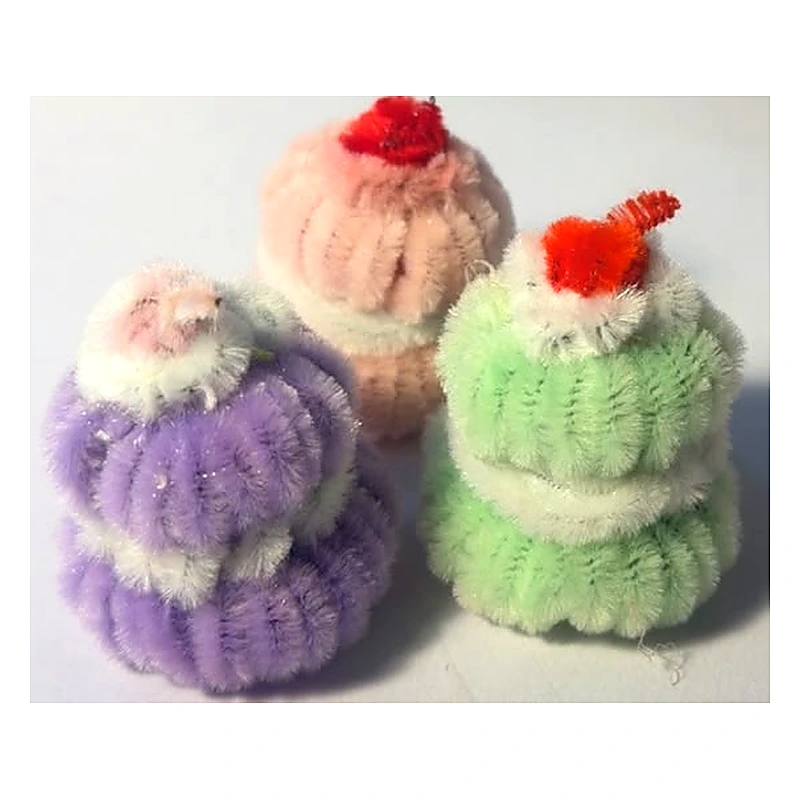
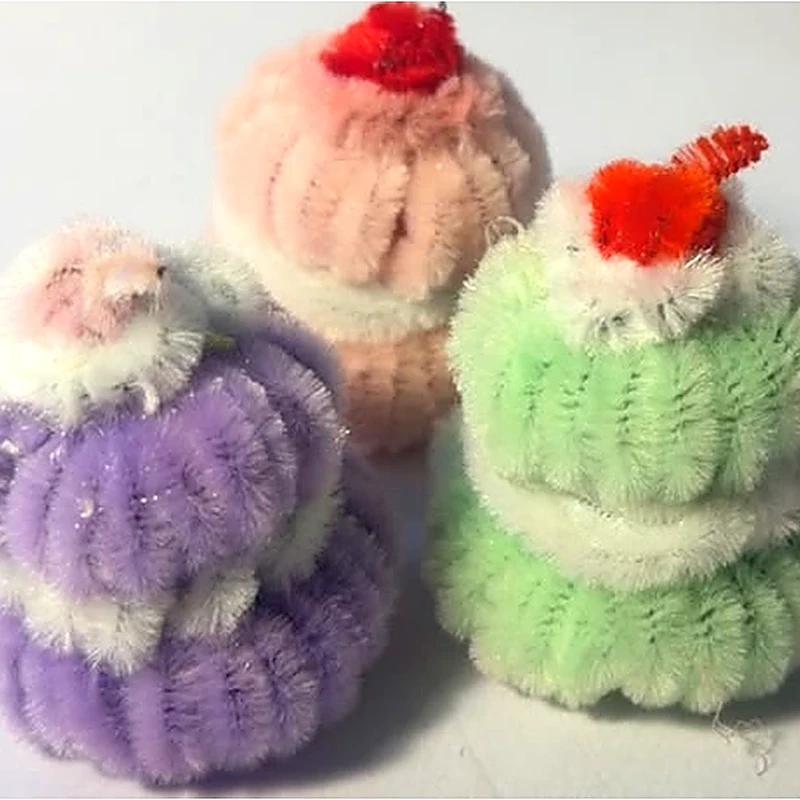
Restore soft pastel catalogue ambience, crop white borders from images for 100% full fit, fix mobile alignment, and shorten hero story

diff --git a/styles.css b/styles.css
@@ -208,46 +208,44 @@ h1 em, h2 em { color: var(--coral); font-style: italic; }
 .product-card {
   min-width: 0;
   position: relative;
-  background: #251222 !important;
-  color: #ffffff !important;
+  background: #ffffff !important;
+  color: #24141e !important;
   border: 1.5px solid var(--card-border, rgba(220, 160, 185, 0.45));
-  border-radius: 26px;
-  overflow: hidden !important;
+  border-radius: 24px;
+  overflow: hidden;
   display: flex;
   flex-direction: column;
-  justify-content: flex-end;
-  box-shadow: 0 12px 34px rgba(78, 24, 53, 0.12);
+  box-shadow: 0 10px 30px rgba(78, 24, 53, 0.08);
   transition: transform 0.35s cubic-bezier(0.16, 1, 0.3, 1), box-shadow 0.35s ease, border-color 0.35s ease;
-  aspect-ratio: 1 / 1.25;
 }
 .product-card:hover {
   transform: translateY(-6px);
-  box-shadow: var(--product-glow, 0 22px 46px rgba(212, 106, 137, 0.32));
-  border-color: rgba(230, 92, 135, 0.65);
+  box-shadow: var(--product-glow, 0 18px 40px rgba(212, 106, 137, 0.24));
+  border-color: rgba(230, 92, 135, 0.55);
 }
 .product-card.is-sold-out { opacity: .74; }
 .product-image {
-  position: absolute !important;
-  inset: 0 !important;
-  width: 100% !important;
-  height: 100% !important;
-  aspect-ratio: auto !important;
-  margin: 0 !important;
-  padding: 0 !important;
-  background: transparent !important;
-  border-radius: 0 !important;
-  box-shadow: none !important;
-  z-index: 1;
+  aspect-ratio: 1 / 1;
+  width: 100%;
+  height: auto;
+  position: relative;
+  overflow: hidden;
+  background: #fff8fa;
   cursor: pointer;
-  display: block;
+  padding: 0;
+  display: flex;
+  align-items: center;
+  justify-content: center;
+  border-radius: 22px 22px 0 0;
 }
 .product-image img {
-  width: 100% !important;
-  height: 100% !important;
-  object-fit: cover !important;
-  object-position: center center !important;
-  border-radius: 0 !important;
-  box-shadow: none !important;
+  width: 100%;
+  height: 100%;
+  object-fit: cover;
+  object-position: center center;
+  border-radius: 0;
+  box-shadow: none;
+  display: block;
   transition: opacity 0.35s ease, transform 0.5s cubic-bezier(0.16, 1, 0.3, 1), filter 0.3s ease;
 }
 .product-card:hover .product-image img {
@@ -257,48 +255,36 @@ h1 em, h2 em { color: var(--coral); font-style: italic; }
 .product-badge-stack { position: absolute !important; left: 12px !important; top: 12px !important; z-index: 4 !important; display: flex !important; flex-direction: column !important; align-items: flex-start !important; gap: 5px !important; pointer-events: none !important; width: auto !important; }
 .product-badge-stack .product-tag { position: static !important; top: auto !important; left: auto !important; right: auto !important; bottom: auto !important; display: inline-flex !important; align-items: center !important; padding: 4px 8px !important; background: rgba(255, 253, 249, 0.94) !important; backdrop-filter: blur(4px) !important; border-radius: 999px !important; font: 600 9.5px var(--mono) !important; text-transform: uppercase !important; letter-spacing: 0.04em !important; color: var(--coral-dark) !important; box-shadow: 0 2px 8px rgba(37, 38, 41, 0.08) !important; margin: 0 !important; }
 .product-badge-stack .product-discount-pill { position: static !important; top: auto !important; left: auto !important; right: auto !important; bottom: auto !important; display: inline-flex !important; align-items: center !important; padding: 3px 8px !important; background: var(--coral) !important; color: #fff !important; border-radius: 999px !important; font: 700 9.5px var(--mono) !important; letter-spacing: 0.02em !important; box-shadow: 0 2px 8px rgba(231, 110, 89, 0.35) !important; margin: 0 !important; }
-.product-image .wish-button { position: absolute; top: 12px; right: 12px; z-index: 4; width: 34px; height: 34px; border: 0; background: rgba(255, 253, 249, 0.92); backdrop-filter: blur(4px); border-radius: 50%; font-size: 18px; line-height: 1; display: grid; place-items: center; transition: transform 0.2s ease, background 0.2s ease; box-shadow: 0 4px 10px rgba(0, 0, 0, 0.15); }
+.product-image .wish-button { position: absolute; top: 12px; right: 12px; z-index: 4; width: 34px; height: 34px; border: 0; background: rgba(255, 253, 249, 0.92); backdrop-filter: blur(4px); border-radius: 50%; font-size: 18px; line-height: 1; display: grid; place-items: center; transition: transform 0.2s ease, background 0.2s ease; box-shadow: 0 4px 10px rgba(78, 24, 53, 0.1); }
 .wish-button:hover { transform: scale(1.12); background: #fff; }
 .wish-button.active { color: var(--coral-dark); }
-.product-quick-view-overlay { position: absolute; inset: 0; background: rgba(20, 8, 17, 0.3); backdrop-filter: blur(2.5px); -webkit-backdrop-filter: blur(2.5px); display: grid; place-items: center; opacity: 0; pointer-events: none; transition: opacity 0.25s ease; z-index: 3; }
+.product-quick-view-overlay { position: absolute; inset: 0; background: rgba(78, 24, 53, 0.18); backdrop-filter: blur(2px); -webkit-backdrop-filter: blur(2px); display: grid; place-items: center; opacity: 0; pointer-events: none; transition: opacity 0.25s ease; z-index: 3; }
 .product-card:hover .product-quick-view-overlay { opacity: 1; pointer-events: auto; }
-.quick-view-btn { padding: 9px 20px; background: rgba(255, 255, 255, 0.95); color: #24141e; border-radius: 999px; font-family: var(--font-btn) !important; font-size: 1.05rem !important; font-weight: 700 !important; letter-spacing: 0.04em !important; text-transform: uppercase !important; line-height: 1 !important; box-shadow: 0 4px 16px rgba(0, 0, 0, 0.2); transform: translateY(6px); transition: transform 0.25s ease, background 0.2s ease, color 0.2s ease; }
+.quick-view-btn { padding: 9px 20px; background: rgba(255, 255, 255, 0.95); color: #24141e; border-radius: 999px; font-family: var(--font-btn) !important; font-size: 1.05rem !important; font-weight: 700 !important; letter-spacing: 0.04em !important; text-transform: uppercase !important; line-height: 1 !important; box-shadow: 0 4px 16px rgba(78, 24, 53, 0.14); transform: translateY(6px); transition: transform 0.25s ease, background 0.2s ease, color 0.2s ease; }
 .product-card:hover .quick-view-btn { transform: translateY(0); }
 .quick-view-btn:hover { background: #fff; color: var(--coral-dark); }
 .product-info {
-  position: relative;
-  z-index: 2;
-  width: 100%;
-  box-sizing: border-box;
-  padding: 42px 18px 18px !important;
+  padding: 18px 20px 22px;
   display: flex;
   flex-direction: column;
-  gap: 10px;
-  background: linear-gradient(
-    to top,
-    rgba(20, 8, 17, 0.96) 0%,
-    rgba(20, 8, 17, 0.84) 52%,
-    rgba(20, 8, 17, 0.42) 80%,
-    transparent 100%
-  ) !important;
-  backdrop-filter: blur(8px);
-  -webkit-backdrop-filter: blur(8px);
-  border-bottom-left-radius: inherit;
-  border-bottom-right-radius: inherit;
+  gap: 12px;
+  flex-grow: 1;
+  justify-content: space-between;
+  background: #ffffff;
 }
-.product-heading h3 { margin: 0; font-size: 16px; font-weight: 700; line-height: 1.35; color: #ffffff !important; cursor: pointer; text-shadow: 0 2px 8px rgba(0, 0, 0, 0.6); transition: color 0.2s ease; }
-.product-heading h3:hover { color: #ff9ebb !important; }
-.product-heading p { margin: 4px 0 0; color: rgba(255, 235, 244, 0.88) !important; font-size: 12px; line-height: 1.45; font-weight: 400; text-shadow: 0 1px 4px rgba(0, 0, 0, 0.6); }
+.product-heading h3 { margin: 0; font-size: 16px; font-weight: 700; line-height: 1.35; color: #24141e !important; cursor: pointer; transition: color 0.2s ease; }
+.product-heading h3:hover { color: #d1496d !important; }
+.product-heading p { margin: 4px 0 0; color: #5c4352 !important; font-size: 12px; line-height: 1.45; font-weight: 400; }
 .product-price-box { display: flex; align-items: baseline; gap: 8px; }
-.product-price { font: 800 18px var(--mono); color: #ff9ebb !important; font-variant-numeric: tabular-nums; text-shadow: 0 1px 4px rgba(0, 0, 0, 0.5); }
-.product-price-old { font: 500 12.5px var(--mono); color: rgba(255, 255, 255, 0.6) !important; text-decoration: line-through; font-variant-numeric: tabular-nums; }
+.product-price { font: 800 18px var(--mono); color: #ad2951 !important; font-variant-numeric: tabular-nums; }
+.product-price-old { font: 500 12.5px var(--mono); color: #8c7380 !important; text-decoration: line-through; font-variant-numeric: tabular-nums; }
 .product-actions-grid { display: grid; grid-template-columns: 1fr 1.05fr; gap: 8px; margin-top: 4px; }
 .action-btn { padding: 12px 14px; border-radius: 999px; font-family: var(--font-btn) !important; font-size: 1.12rem !important; font-weight: 700 !important; letter-spacing: 0.04em !important; text-transform: uppercase !important; line-height: 1 !important; display: inline-flex; align-items: center; justify-content: center; text-align: center; cursor: pointer; transition: all 0.2s ease; border: 1px solid transparent; white-space: nowrap; }
-.action-btn-bag { background: rgba(255, 255, 255, 0.95) !important; color: #24141e !important; border: none !important; box-shadow: 0 4px 14px rgba(0, 0, 0, 0.25); }
-.action-btn-bag:hover { background: #ffffff !important; color: #b82d56 !important; transform: translateY(-1px); }
+.action-btn-bag { background: #fff6f8 !important; border: 1.5px solid rgba(196, 95, 124, 0.28) !important; color: #8c2a4b !important; box-shadow: none !important; }
+.action-btn-bag:hover { background: #ffe9ef !important; border-color: var(--coral-dark) !important; color: var(--coral-dark) !important; transform: translateY(-1px); }
 .action-btn-bag.added-feedback { background: #4caf50 !important; border-color: #4caf50 !important; color: #fff !important; }
-.action-btn-buy { background: linear-gradient(135deg, #e65c87 0%, #b83863 100%) !important; color: #fff !important; border: none !important; box-shadow: 0 4px 14px rgba(230, 92, 135, 0.4); }
-.action-btn-buy:hover { filter: brightness(1.08); box-shadow: 0 6px 18px rgba(230, 92, 135, 0.5); transform: translateY(-1px); }
+.action-btn-buy { background: linear-gradient(135deg, #e65c87 0%, #b83863 100%) !important; color: #fff !important; border: none !important; box-shadow: 0 4px 14px rgba(230, 92, 135, 0.32) !important; }
+.action-btn-buy:hover { filter: brightness(1.08); box-shadow: 0 6px 18px rgba(230, 92, 135, 0.42); transform: translateY(-1px); }
 .empty-state { margin-top: 50px; color: var(--muted); text-align: center; }
 
 .story-band { display: grid; grid-template-columns: 1fr 1fr; align-items: center; gap: clamp(45px, 9vw, 125px); padding-block: 0 142px; }
@@ -2760,9 +2746,9 @@ body.theme-dark .seller-quick-form input {
   /* Mobile Content Padding, Card Spacing & Overflow Fixes */
   .section-shell,
   .site-header {
-    width: calc(100% - 36px) !important;
-    max-width: calc(100% - 36px) !important;
-    padding-inline: 4px !important;
+    width: calc(100% - 32px) !important;
+    max-width: calc(100% - 32px) !important;
+    padding-inline: 0 !important;
     margin-inline: auto !important;
     box-sizing: border-box !important;
   }
@@ -2779,40 +2765,46 @@ body.theme-dark .seller-quick-form input {
   /* Mobile Product Grid: 1 large immersive card per screen row with uniform aspect ratio & bare minimum info */
   .product-grid {
     grid-template-columns: 1fr !important;
-    max-width: 440px !important;
-    margin: 28px auto 0 !important;
-    gap: 34px !important;
+    max-width: 420px !important;
+    margin: 26px auto 0 !important;
+    gap: 28px !important;
     padding-inline: 0 !important;
     width: 100% !important;
     box-sizing: border-box !important;
   }
   .product-card {
-    aspect-ratio: 1 / 1.25 !important;
-    min-height: 480px !important;
-    border-radius: 26px !important;
-    box-shadow: 0 16px 40px rgba(78, 24, 53, 0.16) !important;
+    width: 100% !important;
+    max-width: 100% !important;
+    margin: 0 auto !important;
+    border-radius: 24px !important;
+    box-shadow: 0 10px 28px rgba(78, 24, 53, 0.08) !important;
     overflow: hidden !important;
+    background: #ffffff !important;
+    border: 1.5px solid rgba(220, 160, 185, 0.4) !important;
     display: flex !important;
     flex-direction: column !important;
-    justify-content: flex-end !important;
-    position: relative !important;
+    box-sizing: border-box !important;
+    min-height: 0 !important;
+    aspect-ratio: auto !important;
   }
   .product-image {
-    position: absolute !important;
-    inset: 0 !important;
     width: 100% !important;
-    height: 100% !important;
+    aspect-ratio: 1 / 1 !important;
+    height: auto !important;
     min-height: 0 !important;
     max-height: none !important;
-    aspect-ratio: auto !important;
     padding: 0 !important;
-    border-radius: 0 !important;
+    border-radius: 22px 22px 0 0 !important;
+    background: #fff8fa !important;
+    position: relative !important;
+    overflow: hidden !important;
   }
   .product-image img {
     border-radius: 0 !important;
     width: 100% !important;
     height: 100% !important;
     object-fit: cover !important;
+    display: block !important;
   }
   /* Minimal clutter on mobile card image: hide category pills and internal view counts */
   .product-badge-stack .product-tag,
@@ -2825,19 +2817,14 @@ body.theme-dark .seller-quick-form input {
     z-index: 2 !important;
     width: 100% !important;
     box-sizing: border-box !important;
-    padding: 44px 20px 22px !important;
+    padding: 18px 20px 22px !important;
     gap: 12px !important;
-    background: linear-gradient(
-      to top,
-      rgba(20, 8, 17, 0.96) 0%,
-      rgba(20, 8, 17, 0.84) 52%,
-      rgba(20, 8, 17, 0.42) 80%,
-      transparent 100%
-    ) !important;
-    backdrop-filter: blur(8px) !important;
-    -webkit-backdrop-filter: blur(8px) !important;
+    background: #ffffff !important;
+    display: flex !important;
+    flex-direction: column !important;
   }
   .product-heading h3 {
+    color: #24141e !important;
     font-size: 18px !important;
     line-height: 1.35 !important;
     margin-bottom: 4px !important;
@@ -2845,14 +2832,17 @@ body.theme-dark .seller-quick-form input {
     -webkit-line-clamp: 2 !important;
     -webkit-box-orient: vertical !important;
     overflow: hidden !important;
+    text-shadow: none !important;
   }
   .product-heading p {
+    color: #5c4352 !important;
     font-size: 13px !important;
     line-height: 1.45 !important;
     display: -webkit-box !important;
     -webkit-line-clamp: 2 !important;
     -webkit-box-orient: vertical !important;
     overflow: hidden !important;
+    text-shadow: none !important;
   }
   .product-price-box {
     display: flex !important;
@@ -2863,14 +2853,28 @@ body.theme-dark .seller-quick-form input {
   .product-price {
     font-size: 20px !important;
     font-weight: 800 !important;
+    color: #ad2951 !important;
+    text-shadow: none !important;
   }
   .product-price-old {
     font-size: 14px !important;
+    color: #8c7380 !important;
   }
   .product-actions-grid {
     grid-template-columns: 1fr 1fr !important;
     gap: 8px !important;
     margin-top: 6px !important;
+  }
+  .action-btn-bag {
+    background: #fff6f8 !important;
+    border: 1.5px solid rgba(196, 95, 124, 0.28) !important;
+    color: #8c2a4b !important;
+    box-shadow: none !important;
+  }
+  .action-btn-buy {
+    background: linear-gradient(135deg, #e65c87 0%, #b83863 100%) !important;
+    color: #fff !important;
+    box-shadow: 0 4px 12px rgba(230, 92, 135, 0.32) !important;
   }
   .action-btn {
     padding: 14px 18px !important;

diff --git a/index.html b/index.html
@@ -27,7 +27,7 @@
     <link rel="preconnect" href="https://fonts.googleapis.com" />
     <link rel="preconnect" href="https://fonts.gstatic.com" crossorigin />
     <link href="https://fonts.googleapis.com/css2?family=Antonio:wght@400;600;700&family=DM+Mono:wght@400;500&family=DM+Sans:ital,wght@0,400;0,500;0,600;0,700;1,400&family=Playfair+Display:ital,wght@0,600;0,700;1,600;1,700&display=swap" rel="stylesheet" />
-    <link rel="stylesheet" href="styles.css?v=prod24" />
+    <link rel="stylesheet" href="styles.css?v=prod25" />
     <script type="application/ld+json">
       {
         "@context": "https://schema.org",
@@ -88,7 +88,7 @@
         <div class="hero-copy">
           <p class="eyebrow"><span class="eyebrow-dot"></span> EVERLASTING BOTANICAL SCULPTURES · HANDCRAFTED IN INDIA</p>
           <h1>Ray Crafting</h1>
-          <p class="hero-intro">Petals drift and fresh bouquets wither, but the warmth you share shouldn’t have an expiration date. Each botanical sculpture and little companion is shaped with soft pipe-cleaners, patience, and intentional care — creating everlasting blooms that keep their sunshine forever.</p>
+          <p class="hero-intro">Handcrafted everlasting blooms and little companions, shaped with soft pipe-cleaners to keep their sunshine forever.</p>
           <div class="hero-actions">
             <a class="button button-dark" href="#shop">SHOP THE COLLECTION</a>
             <a class="button button-custom-highlight" href="#custom">
@@ -467,7 +467,7 @@
 
     <div class="toast" id="toast" role="status" aria-live="polite"></div>
     <script src="catalog.js?v=20261107v8"></script>
-    <script src="shared-script.js?v=20261107v10"></script>
+    <script src="shared-script.js?v=20261107v11"></script>
     <script src="custom-requests.js?v=20261107v8"></script>
     <script src="commerce.js?v=20261107v9"></script>
 </body>

diff --git a/AGENTS.md b/AGENTS.md
@@ -62,10 +62,13 @@
 - **Superior Clickability & Touch Targets:** Enforce comfortable touch heights (`min-height: 48px`), generous horizontal padding, rounded pill shapes (`border-radius: 999px`), and tactile hover/active states for maximum engagement on both mobile and desktop.
 - **Permanent Pricing Preservation Lock:** Never purge `raycrafting_user_prices` from `localStorage` during cache migrations, and ensure both frontend client (`shared-script.js`) and backend SQLite (`server.js`) strictly maintain the user-set prices without autonomous overwrites.
 
-## 13. Unified Full-Bleed Card Architecture, Awwwards Carousel, & Die-Cut Sticker
-- **Product Cards: Image as One Unified Background:** Product cards (`.product-card`) must use the photo as the entire card background (full-bleed `aspect-ratio: 1 / 1.25`), rather than splitting the card into a separate image box on top and a white box below. Information is layered over an organic frosted twilight gradient overlay (`.product-info`) with high-contrast typography (`color: #fff; text-shadow: 0 2px 8px rgba(0,0,0,0.6)`), luminous rose-pink price tags (`#ff9ebb`), and bold button pills (`ADD TO BAG`, `BUY NOW`).
-- **Hero Showcase Carousel (Awwwards-Grade):** Never place clunky centered arrow buttons directly over artwork. Position sleek thumb-accessible navigation controls (`‹` and `›`) in an editorial showcase panel below the frame alongside bold counter chips (`01 / 05`), status chips (`Featured Creation`), popping titles (`clamp(20px, 3.8vw, 25px)`), and actionable exploration pills (`EXPLORE PIECE`). Implement fluid horizontal touch gestures (`touchstart`, `touchmove`, `touchend`) with a 35px threshold for intuitive mobile swipe navigation.
-- **Die-Cut Craft Sticker (Keel Architecture):** Handcrafted badges on showcase photos must follow authentic die-cut paper peel sticker styling (`vaidikcode/keel`): 2.5px solid white border, 12px rounded corners, realistic drop shadow, 6deg rotation tilt, and a folded corner gradient crease (`.sticker-peel`).
+## 13. Catalogue Ambience, Full-Fit Borderless Imagery & Mobile Alignment
+- **Soft Dreamy Catalogue Ambience (No Harsh Dark Blocks):** Product cards must maintain Raycrafting's signature warm, gentle, light pastel aesthetic (`background: #ffffff`, soft plum text `#24141e`, muted berry detail `#5c4352`, vibrant rose-pink prices `#ad2951`, and creamy-pink button pills). Avoid harsh, pitch-black blocks or heavy dark overlays that disrupt the soft blush ambience.
+- **Full-Fit Edge-to-Edge Product Images:** All product images must be cropped clean of matte white border padding so photos fit edge-to-edge full bleed (`object-fit: cover; aspect-ratio: 1 / 1; width: 100%`) with zero white letterboxing.
+- **Strict Mobile View Alignment:** Mobile cards (`.product-card`) must fit cleanly within the viewport (`width: 100%; max-width: 420px; margin: 0 auto; box-sizing: border-box;`). Never combine fixed `min-height` with `aspect-ratio` on cards as this forces width expansion beyond narrow mobile screens and causes left-clipped misalignment. Container `.section-shell` enforces equal 16px lateral gutters (`width: calc(100% - 32px); margin-inline: auto; padding-inline: 0;`).
+- **Concise Hero Story Copy:** Keep the hero story paragraph beneath "Ray Crafting" concise and grounded (1-2 lines): *"Handcrafted everlasting blooms and little companions, shaped with soft pipe-cleaners to keep their sunshine forever."*
+- **Hero Showcase Carousel (Awwwards-Grade):** Sleek thumb-accessible navigation controls (`‹` and `›`) in an editorial showcase panel below the frame, bold counter chips (`01 / 05`), status chips (`Featured Creation`), popping titles, actionable exploration pills (`EXPLORE PIECE`), and fluid horizontal touch swipe gestures (`touchstart`, `touchmove`, `touchend`).
+- **Die-Cut Craft Sticker (Keel Architecture):** Handcrafted badges on showcase photos follow authentic die-cut paper peel sticker styling (`vaidikcode/keel`): 2.5px solid white border, 12px rounded corners, realistic drop shadow, 6deg rotation tilt, and a folded corner gradient crease (`.sticker-peel`).
 - **Gradient Overflow Prevention on Filter Pills:** When styling active category pills (`.filter-button.active`), strictly eliminate colored box shadows that cast a pink gradient haze on WebKit browsers, and enforce `border: none !important; box-shadow: none !important; overflow: hidden !important; -webkit-mask-image: -webkit-radial-gradient(white, black);` for crisp, bleed-free pill contours.
 
 
